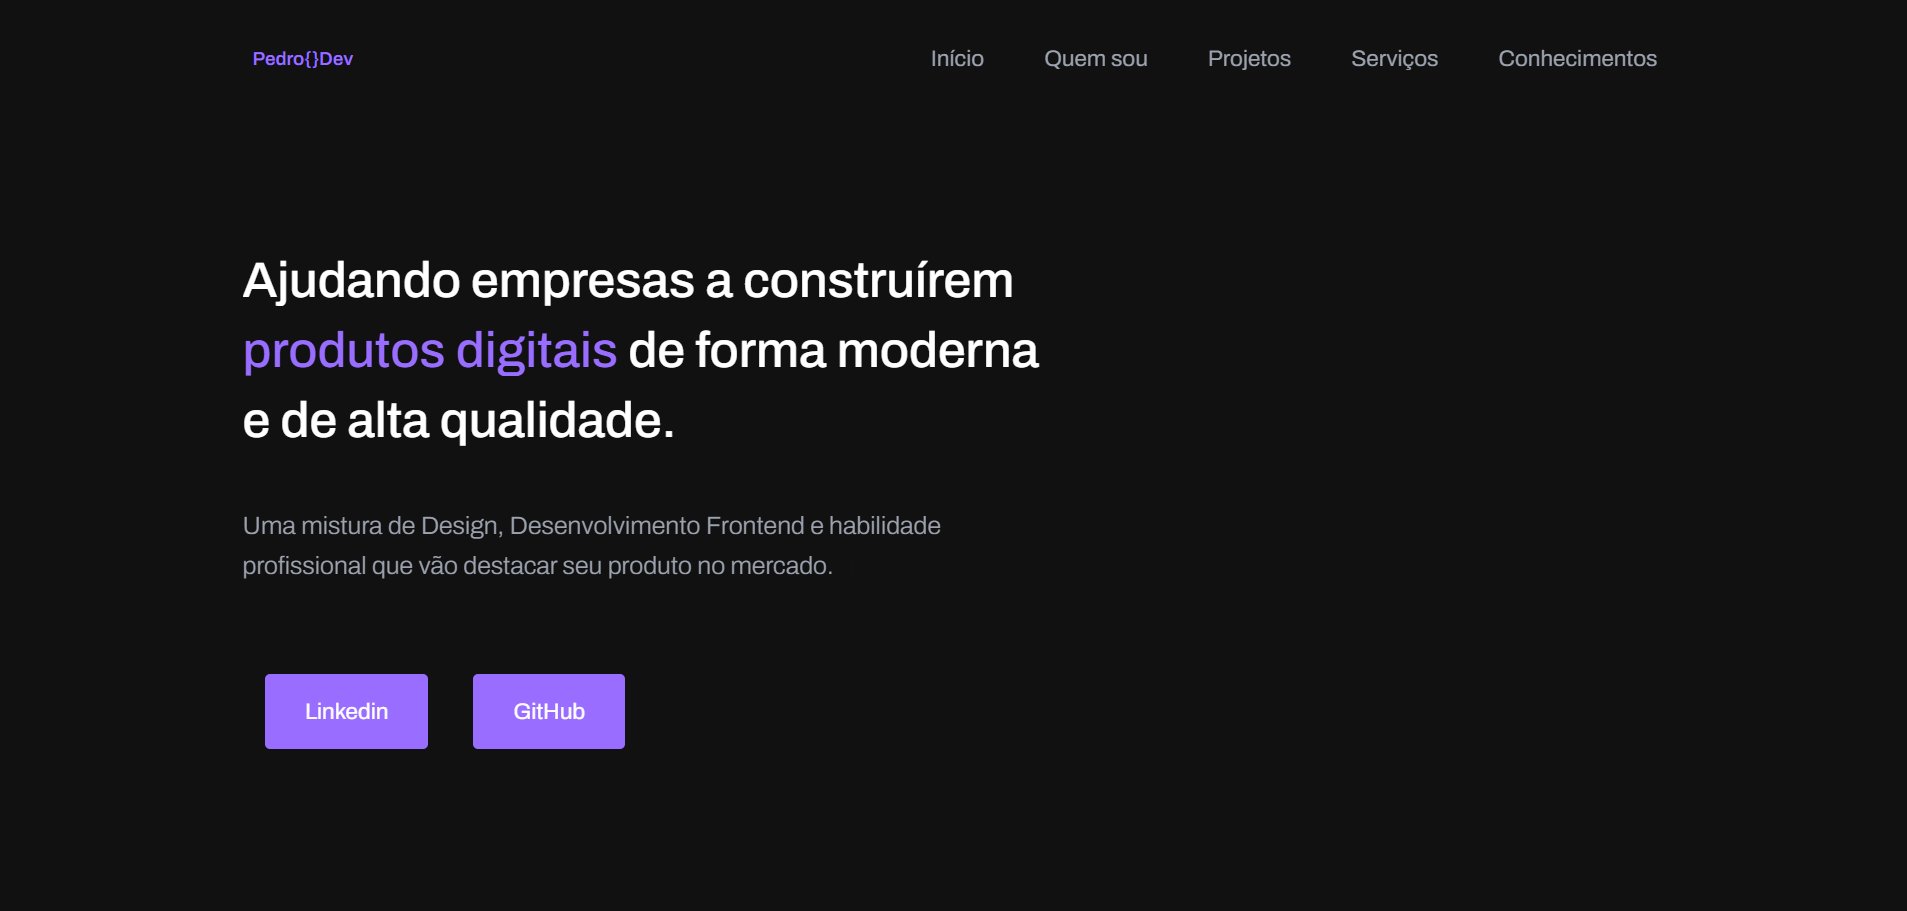
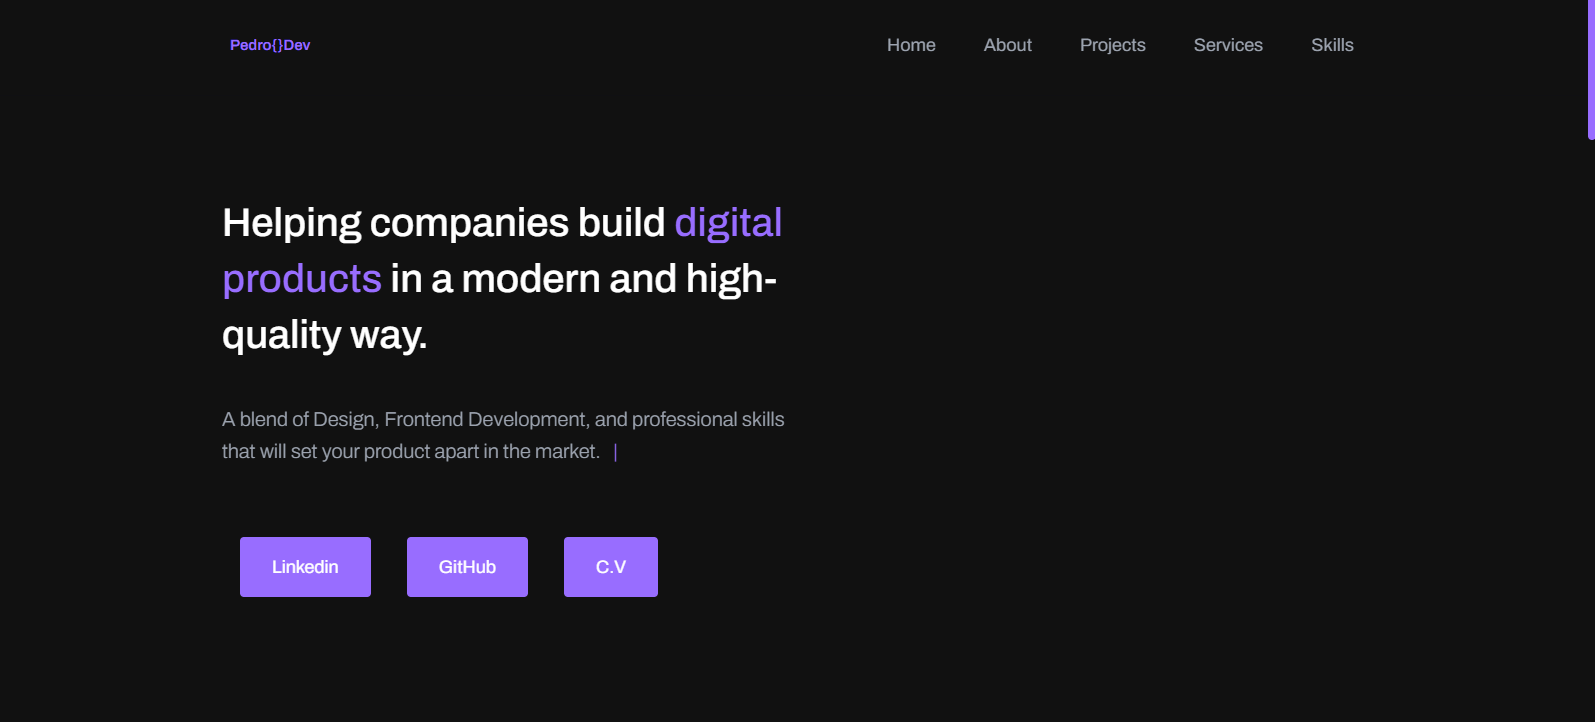
05/03/2024

diff --git a/README.md b/README.md
@@ -1,27 +1,27 @@
 <h1 align="center">
-  💻<br>Portfólio - Pedro Tortoriello
+  💻<br>Portfolio - Pedro Tortoriello
 </h1>
 
-![Resultado final do projeto](assets/image/preview.png)
+![Final project result](assets/image/preview.png)
 
-<h4 align="center"><a href="https://www.pedrotortoriello.com.br/">Clique para visitar o projeto</a></h4>
+<h4 align="center"><a href="https://www.pedrotortoriello.com.br/">Click to visit the project</a></h4>
 
-## 📚 Seções
+## 📚 Sections
 
-O site é composto por cinco seções:
+The website is composed of five sections:
 
-- **Home:** Nele temos uma breve apresentação;
-- **Quem sou:** Nessa seção tenho uma descrição dizendo um pouco sobre quem sou;
-- **Experiências:** Abordo algumas empresas da qual prestei meus serviços na área de desenvolvimento e design;
-- **Projetos:** Apresenta alguns projetos desenvolvidos e com link direto para os respectivos códigos no GitHub;
-- **Serviços:** Exibe através de cards os diferentes serviços em que possuo conhecimentos;
-- **Conhecimentos:** Nele apresentamos meus conhecimentos em algumas linguagens como o foco no front-end;
+- **Home:** Here we have a brief introduction;
+- **About Me:** In this section, I have a description talking a bit about who I am;
+- **Experiences:** I discuss some companies where I provided my services in development and design;
+- **Projects:** Presents some developed projects with direct links to their respective GitHub repositories;
+- **Services:** Displays different services I have knowledge of through cards;
+- **Skills:** Here, I present my skills in some languages with a focus on front-end development;
 
 ---
 
-## 💼 Tecnologias utilizadas
+## 💼 Technologies Used
 
-Para o desenvolvimento deste site utilizei as seguintes tecnologias:
+For the development of this website, I used the following technologies:
 
 - HTML;
 - Sass;
@@ -31,13 +31,13 @@ Para o desenvolvimento deste site utilizei as seguintes tecnologias:
 
 ---
 
-<h2>👨🏻💻 Autor</h2>
+<h2>👨🏻💻 Author</h2>
 
 <table>
   <tr>
     <td align="center">
       <a href="https://github.com/PedroFTDev">
-        <img src="assets/image/imagem.jpg" width="100px;" alt="Foto"/><br>
+        <img src="assets/image/imagem.jpg" width="100px;" alt="Photo"/><br>
         <sub>
           <b>Pedro T.</b>
         </sub>
